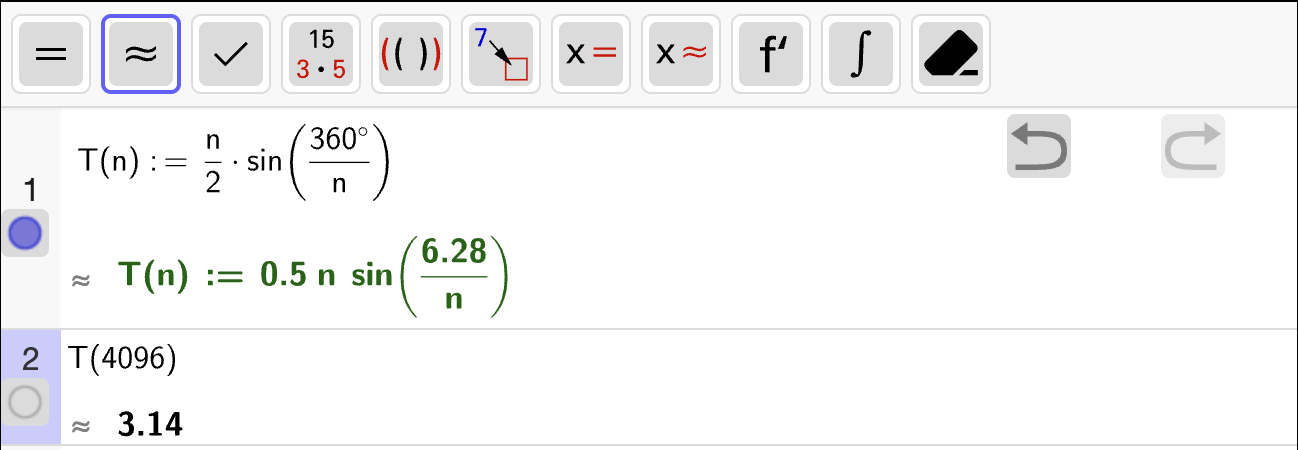
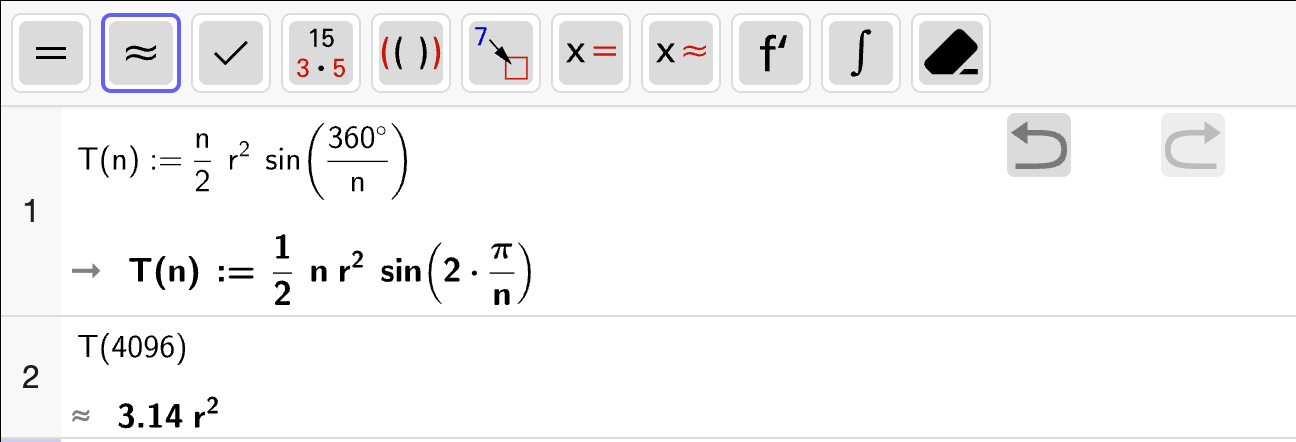
update

diff --git a/book/trigonometri/arealsetningen/oppgaver.md b/book/trigonometri/arealsetningen/oppgaver.md
@@ -1091,7 +1091,7 @@ file: ./ggb/oppgaver/oppgave_8/cas.html
 ---
 class: problem-level-3
 ---
-I figuren nedenfor vises en regulær $12$-kant som innskrevet i en sirkel med radius $1$. 
+I figuren nedenfor vises en regulær $12$-kant som innskrevet i en sirkel med radius $r$. 
 
 :::{figure} ./figurer/oppgaver/oppgave_9/figur.svg
 ---
@@ -1105,7 +1105,7 @@ class: no-click
 class: tabs-parts
 ---
 :::::::::::::{tab-item} a
-Bestem en eksakt verdi for arealet av $12$-kanten.
+Bestem en eksakt verdi for arealet av $12$-kanten uttrykt ved $r$.
 
 
 ::::{admonition} Fasit
@@ -1115,7 +1115,7 @@ class: answer, dropdown
 Arealet av $12$-kanten er
 
 $$
-T = 3.
+T = 3r^2
 $$
 ::::
 
@@ -1123,14 +1123,14 @@ $$
 
 
 :::::::::::::{tab-item} b
-Bestem en formel for arealet av en regulær $n$-kant som er innskrevet i en sirkel med radius $1$.
+Bestem en formel for arealet av en regulær $n$-kant som er innskrevet i en sirkel med radius $r$.
 
 ::::{admonition} Fasit
 ---
 class: answer, dropdown
 ---
 $$
-T = \dfrac{n}{2} \cdot \sin \left( \dfrac{360\degree}{n} \right)
+T = \dfrac{n}{2} \cdot r^2 \cdot \sin \left( \dfrac{360\degree}{n} \right)
 $$
 ::::
 
@@ -1148,7 +1148,7 @@ Stemmer svaret ditt overens med det du forventer?
 class: answer, dropdown
 ---
 $$
-T \approx 3.14. 
+T \approx 3.14 r^2 
 $$
 ::::
 
@@ -1166,13 +1166,13 @@ class: no-click
 ---
 :::
 
-Altså er arealet av en regulær $4096$-kant som er innskrevet i en sirkel med radius $1$ ca.
+Altså er arealet av en regulær $4096$-kant som er innskrevet i en sirkel med radius $r$ ca.
 
 $$
-T \approx 3.14. 
+T \approx 3.14 r^2
 $$
 
-som stemmer godt overens med at arealet bør være ganske nærme arealet av en sirkel med radius $1$.
+som stemmer godt overens med at arealet bør være ganske nærme arealet av en sirkel med radius $r$.
 ::::
 
 
